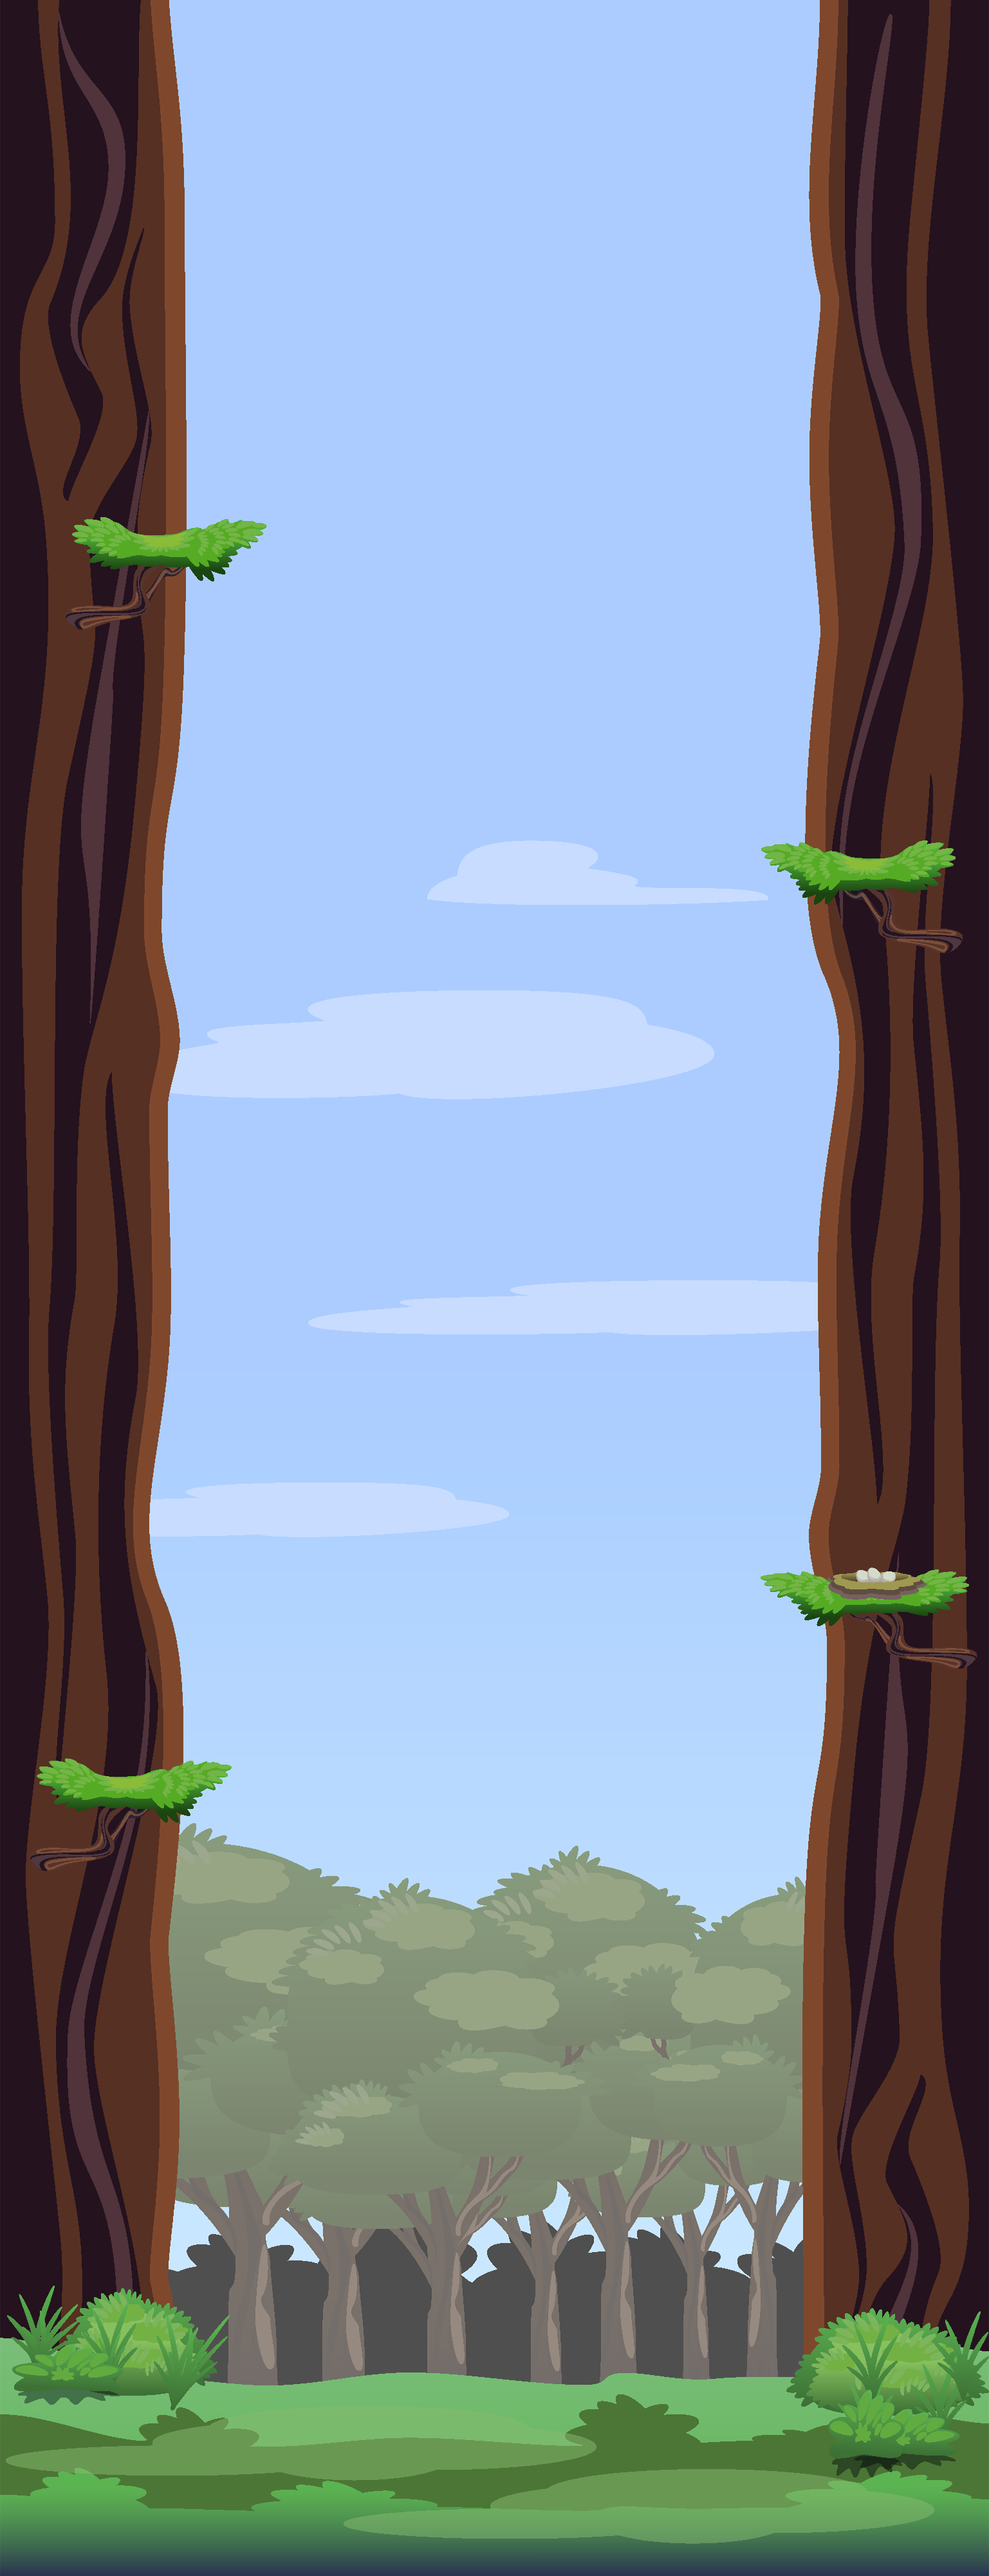
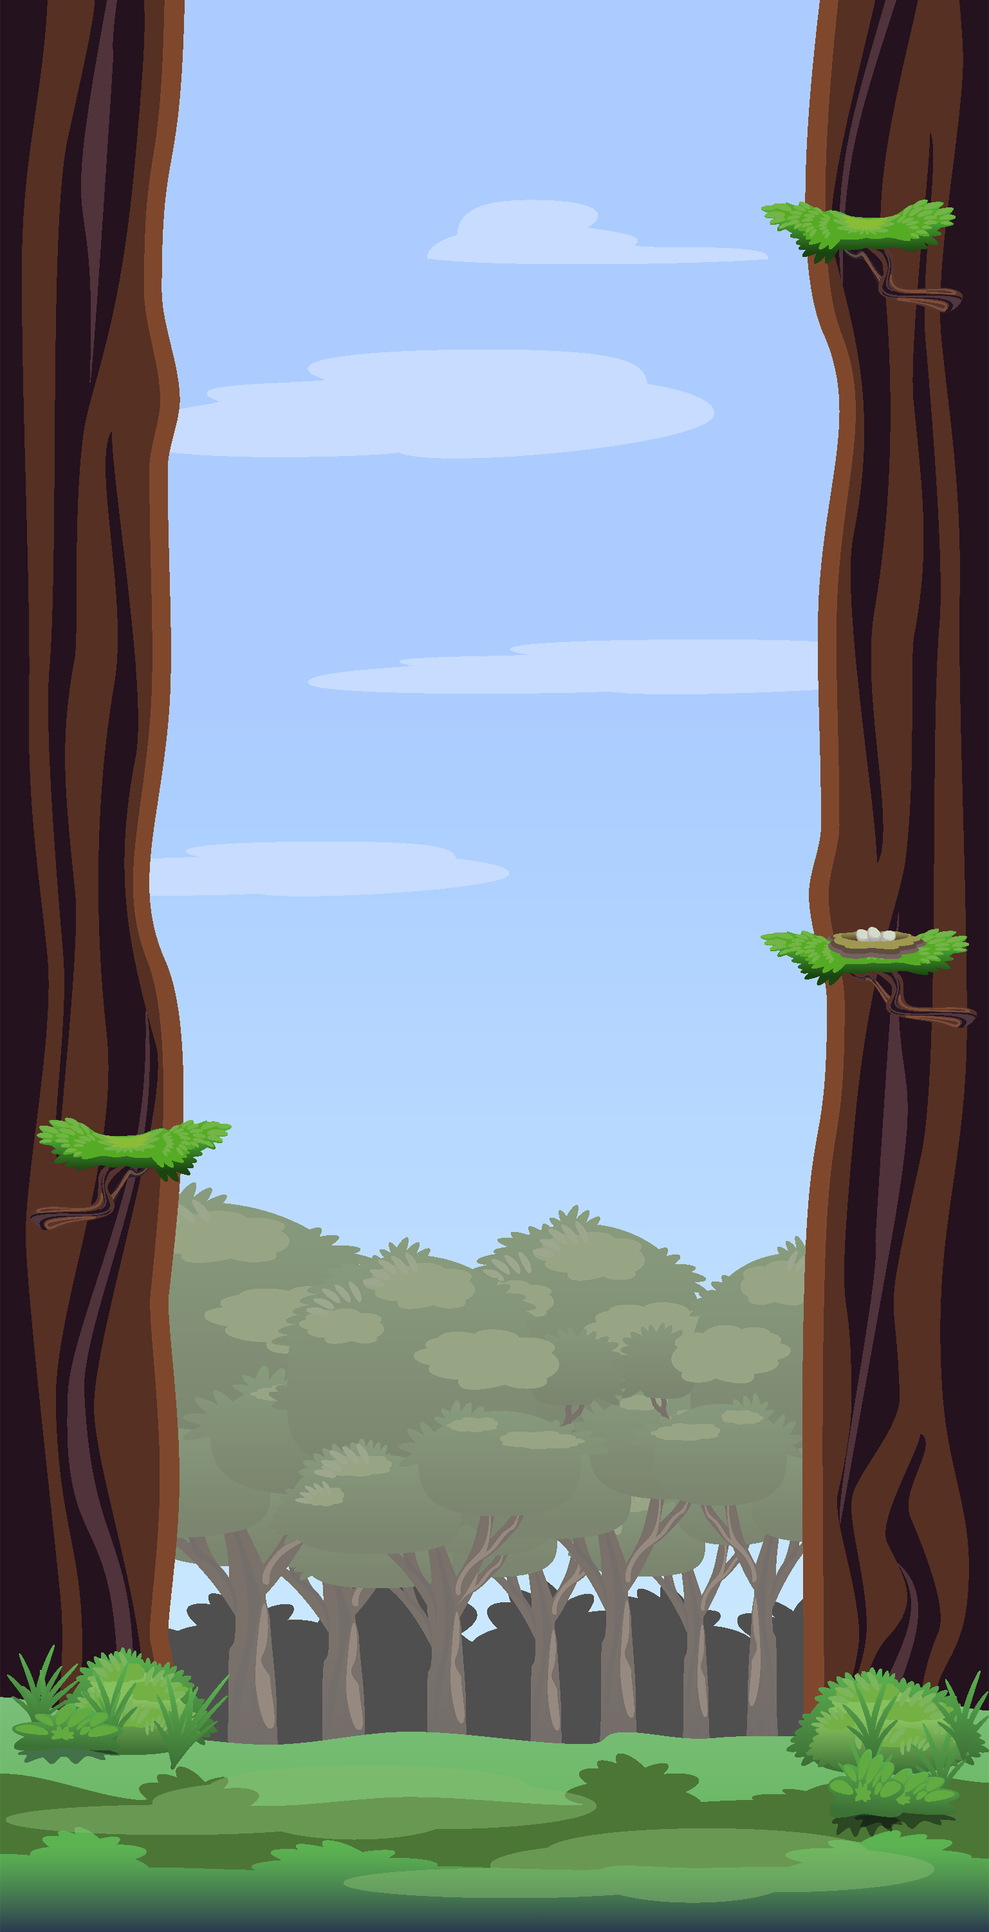
Feat : 창 크기와 맵 이미지 조정

diff --git a/main.cpp b/main.cpp
@@ -177,10 +177,6 @@ int WINAPI WinMain(HINSTANCE hInstance, HINSTANCE hPrevInstance, LPSTR lpCmdLine
 		platformData =
 		collisionMask.BuildPlatformsNDC();
 
-
-	renderer.CreatePrimitive<Ball>(vertexBufferSphere, numVerticesSphere);
-	renderer.CreatePrimitive<Ball>(vertexBufferSphere, numVerticesSphere);
-	renderer.CreatePrimitive<Ball>(vertexBufferSphere, numVerticesSphere);
 	renderer.CreatePrimitive<Ball>(vertexBufferSphere, numVerticesSphere);
 
 	// 실제 Platform 생성
@@ -197,12 +193,12 @@ int WINAPI WinMain(HINSTANCE hInstance, HINSTANCE hPrevInstance, LPSTR lpCmdLine
 
 
 	Input input; 
-	//renderer.CreatePrimitive<Platform>(vertexBufferCube, numVerticesCube);
-	//renderer.CreatePrimitive<Platform>(vertexBufferCube, numVerticesCube);
-	//renderer.CreatePrimitive<Platform>(vertexBufferCube, numVerticesCube);
-	//renderer.CreatePrimitive<Platform>(vertexBufferCube, numVerticesCube);
-	//renderer.CreatePrimitive<Platform>(vertexBufferCube, numVerticesCube);
-	//renderer.CreatePrimitive<Platform>(vertexBufferCube, numVerticesCube);
+	renderer.CreatePrimitive<Platform>(vertexBufferCube, numVerticesCube);
+	renderer.CreatePrimitive<Platform>(vertexBufferCube, numVerticesCube);
+	renderer.CreatePrimitive<Platform>(vertexBufferCube, numVerticesCube);
+	renderer.CreatePrimitive<Platform>(vertexBufferCube, numVerticesCube);
+	renderer.CreatePrimitive<Platform>(vertexBufferCube, numVerticesCube);
+	renderer.CreatePrimitive<Platform>(vertexBufferCube, numVerticesCube);
 
 	ID3D11ShaderResourceView* ShaderResourceViewGround = TextureLoader::CreateTextureFromFile(renderer.Device, L"Asset/Stage_Ground.png");
 	ID3D11ShaderResourceView* ShaderResourceViewA = TextureLoader::CreateTextureFromFile(renderer.Device, L"Asset/Stage_A.png");

diff --git a/Map/MapGlobals.hpp b/Map/MapGlobals.hpp
@@ -8,7 +8,7 @@ namespace Globals {
 
 	constexpr Vector3 LEFT_BORDER_POINT		= Vector3(0.0f, 0.0f, 0.0f);
 	constexpr Vector3 RIGHT_BORDER_POINT	= Vector3(15.0f, 0.0f, 0.0f);
-	constexpr Vector3 TOP_BORDER_POINT		= Vector3(0.0f, 40.0f, 0.0f);
+	constexpr Vector3 TOP_BORDER_POINT		= Vector3(0.0f, 30.0f, 0.0f);
 	constexpr Vector3 BOTTOM_BORDER_POINT	= Vector3(0.0f, 2.0f, 0.0f);
 
 	constexpr Vector3 LEFT_BORDER_NORMAL	= Vector3(1.0f, 0.0f, 0.0f);
@@ -19,7 +19,7 @@ namespace Globals {
 
 	constexpr float LEFT_BORDER = 0.0f;
 	constexpr float RIGHT_BORDER = 15.0f;
-	constexpr float TOP_BORDER = 40.0f;
+	constexpr float TOP_BORDER = 30.0f;
 	constexpr float BOTTOM_BORDER = 0.0f;
 
 	constexpr float MAP_WIDTH = 1536.0f;

diff --git a/Renderer/WindowGlobals.hpp b/Renderer/WindowGlobals.hpp
@@ -7,6 +7,6 @@ struct WindowSize
 };
 	
 namespace WindowGlobals {
-	inline WindowSize SCREENSIZE = { 384.0f, 1024.0f };
+	inline WindowSize SCREENSIZE = { 700.0f, 1400.0f };
 
 }
